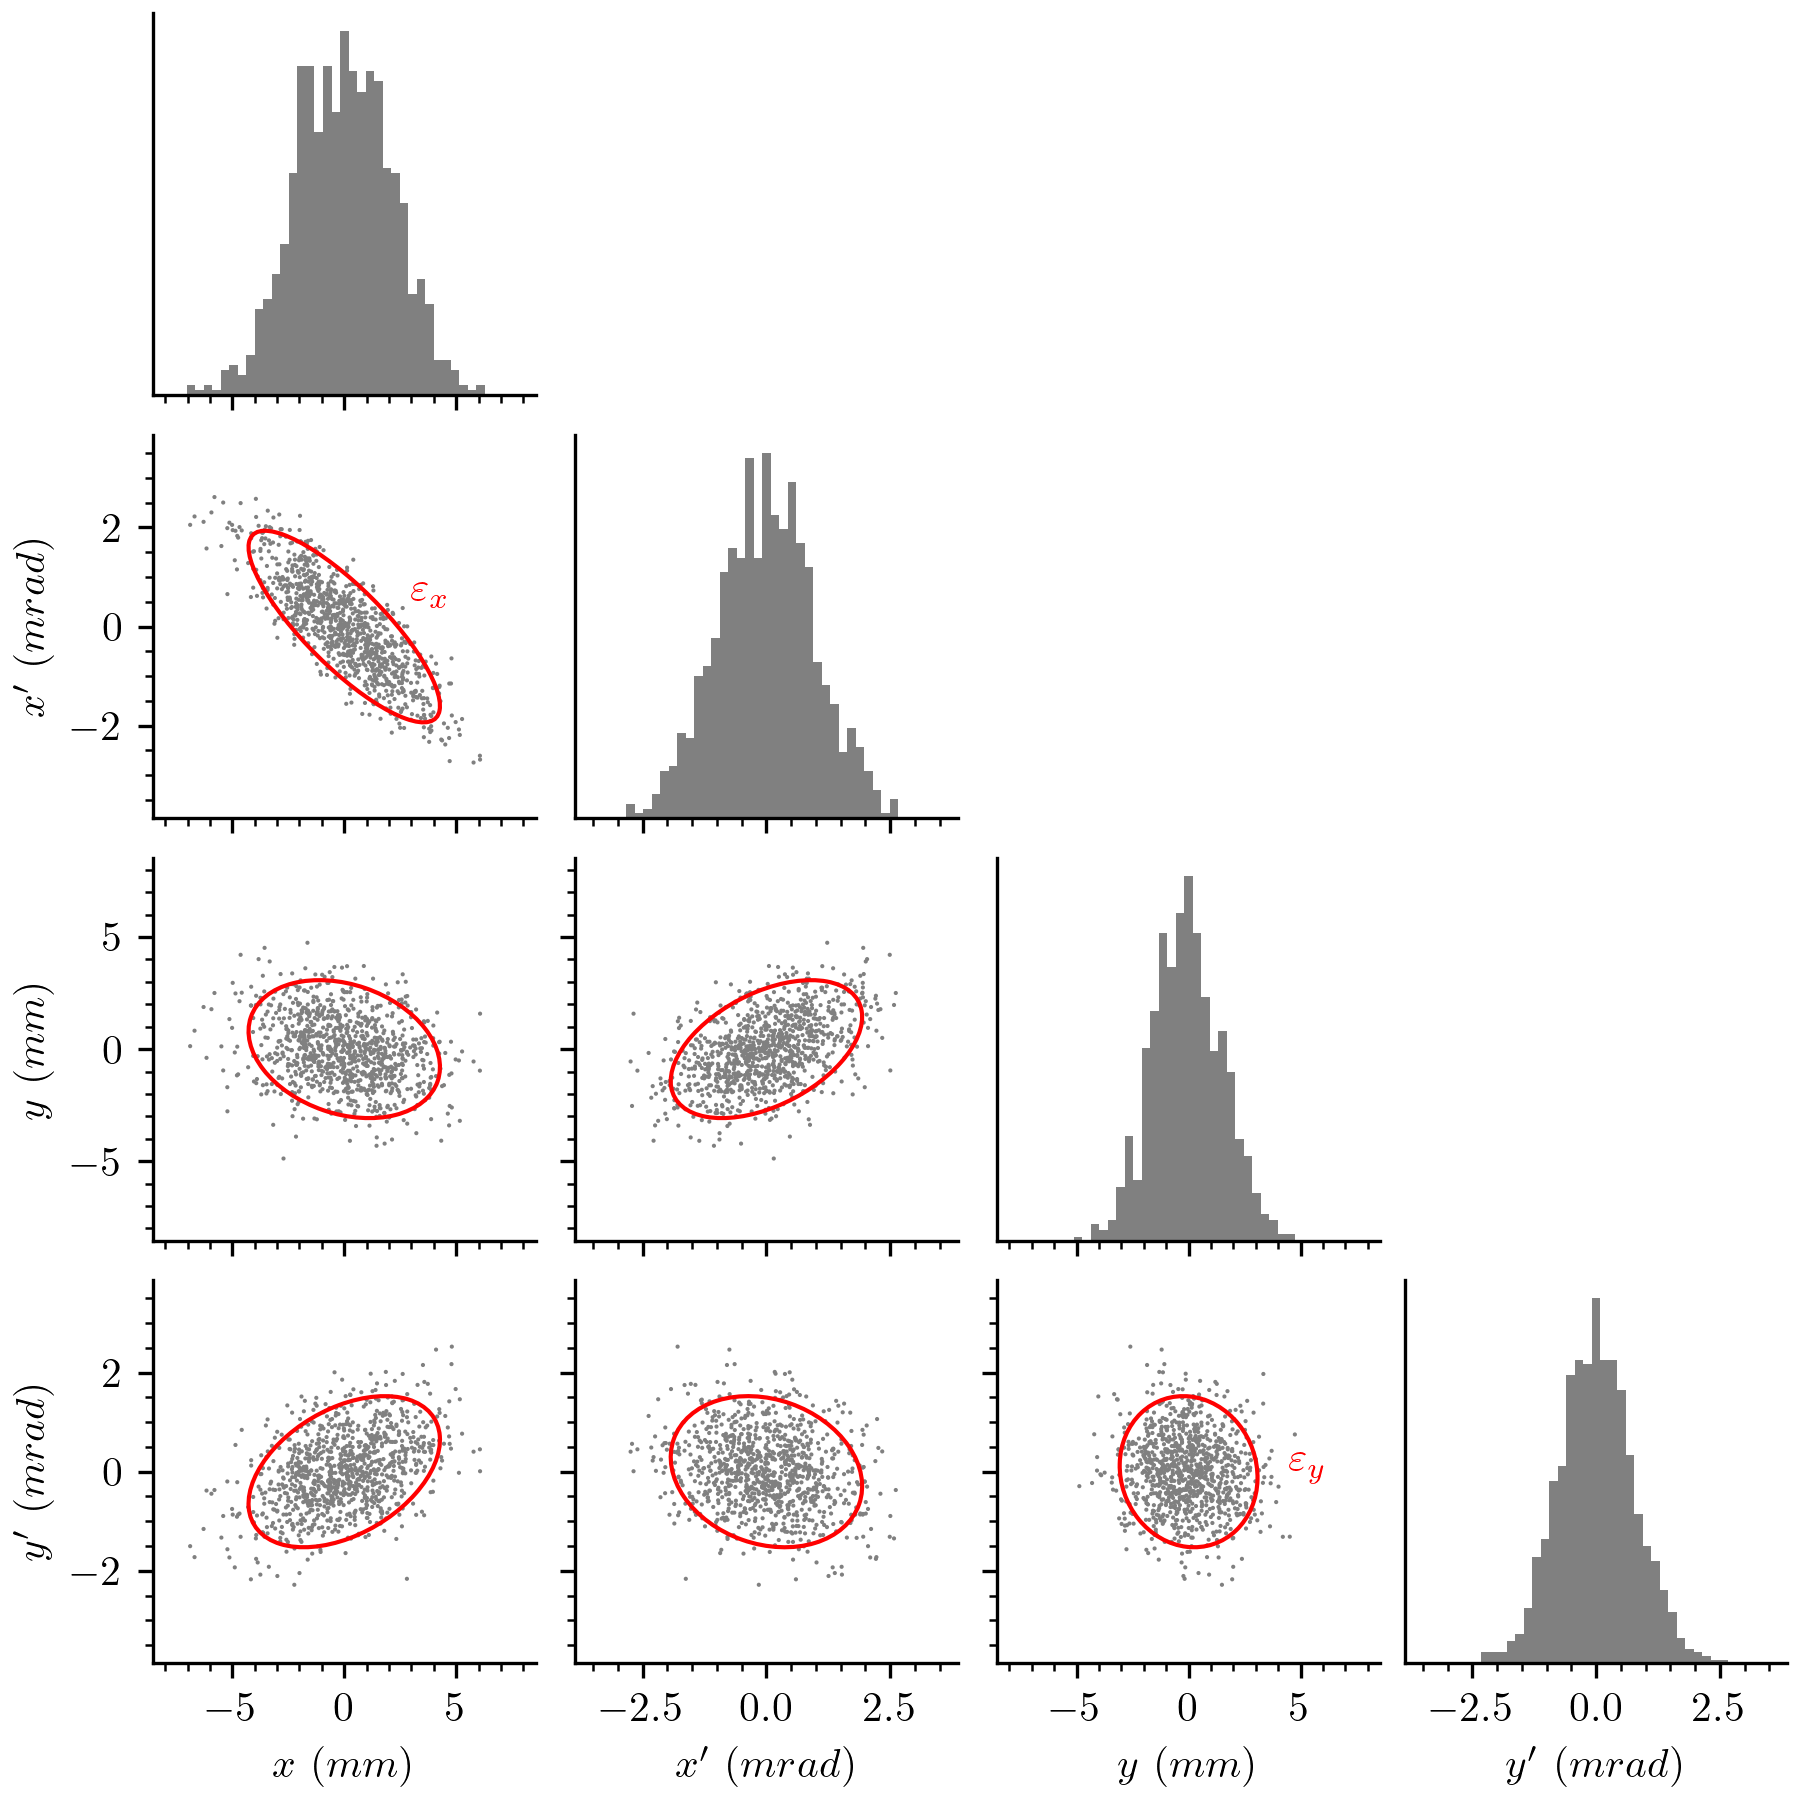
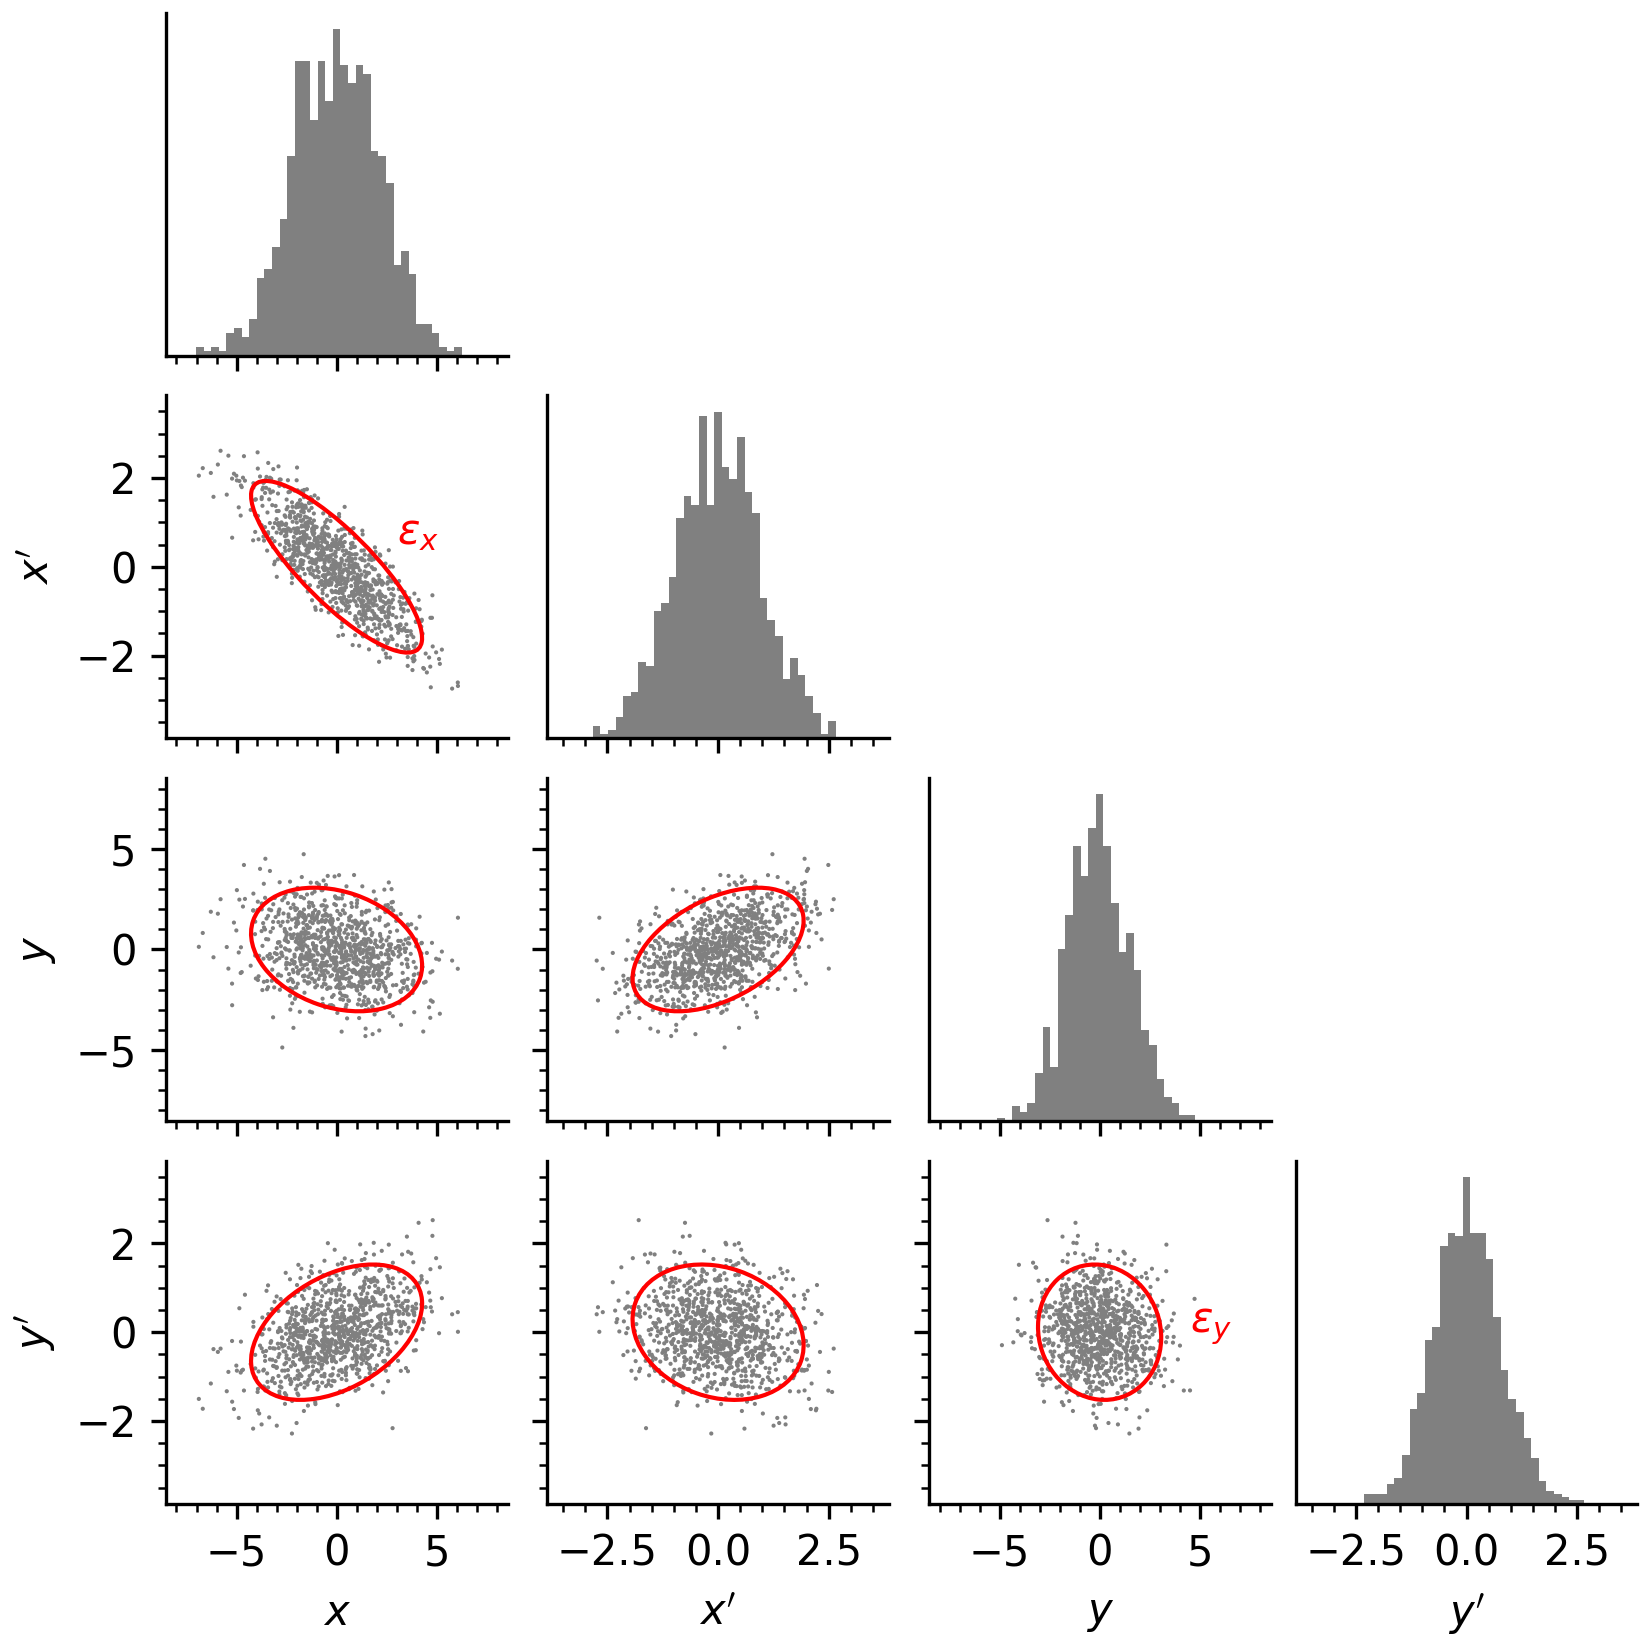
Keep writing

diff --git a/posts/eigenpainting-prl/fig_cov.py b/posts/eigenpainting-prl/fig_cov.py
@@ -7,10 +7,6 @@ plt.rcParams["xtick.minor.visible"] = True
 plt.rcParams["ytick.minor.visible"] = True
 plt.rcParams["figure.constrained_layout.use"] = True
 
-plt.rcParams["text.usetex"] = True
-plt.rcParams["font.family"] = "serif"
-plt.rcParams["font.serif"] = ["Computer Modern"]
-
 
 def poisson_matrix(ndim: int) -> np.ndarray:
     U = np.zeros((ndim, ndim))
@@ -246,11 +242,11 @@ S = np.cov(X.T)
 xrms = np.std(X, axis=0)
 
 
-labels = [r"$x$ ($mm$)", r"$x'$ ($mrad$)", r"$y$ ($mm$)", r"$y'$ ($mrad$)"]
+labels = [r"$x$", r"$x'$", r"$y$", r"$y'$"]
 limits = get_limits(X)
 
-grid = CornerGrid(ndim=4, figwidth=6.0)
-grid.set_labels(labels, fontsize="medium")
+grid = CornerGrid(ndim=4, figwidth=5.5)
+grid.set_labels(labels)
 grid.set_limits(limits)
 grid.plot_scatter(X, s=1, c="grey", ec="none", diag_kws=dict(color="grey"))
 grid.plot_cov(S, color="red")
@@ -273,15 +269,15 @@ S = np.cov(X.T)
 xrms = np.std(X, axis=0)
 
 labels=[
-    r"$u_1$ ($\sqrt{mm \cdot mrad}$)",
-    r"$u_1'$ ($\sqrt{mm \cdot mrad}$)",
-    r"$u_2$ ($\sqrt{mm \cdot mrad}$)",
-    r"$u_2'$ ($\sqrt{mm \cdot mrad}$)",
+    r"$u_1$",
+    r"$u_1'$",
+    r"$u_2$",
+    r"$u_2'$",
 ]
 limits = get_limits(X)
 
-grid = CornerGrid(ndim=4, figwidth=6.0)
-grid.set_labels(labels, fontsize="medium")
+grid = CornerGrid(ndim=4, figwidth=5.5)
+grid.set_labels(labels)
 grid.set_limits(limits)
 grid.plot_scatter(X, s=1, c="grey", ec="none", diag_kws=dict(color="grey"))
 grid.plot_cov(S, color="red")
